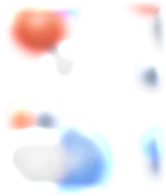
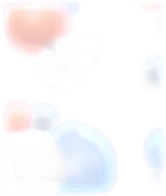
home page: intro pictures match the live first frame, guarded by a test
The intro starts settled: on its first frame the reel puts colours and camera in place,
so the live 3D no longer drifts for a second after it appears and the picture can show
that exact frame. Pictures now hold the dimmed canvas as seen over the page colour (the
canvas adds light where it is brighter than its alpha, which a straight-alpha picture
cannot hold), and touch screens get shapes up to 2.4:1; a screen far from every shape
gets no picture. tests/poster.spec.ts compares the picture with the first live frame.

diff --git a/tests/poster.spec.ts b/tests/poster.spec.ts
@@ -1,0 +1,48 @@
+// The intro's prerendered pictures (img/intro/*.webp) must match the live intro they hand over to. When the dust scene,
+// the lens or the colours change, this fails until the pictures are baked again (perf/capture-intro.cjs, then
+// perf/bake-intro-posters.py). The comparison is made as a visitor sees it: both composited over the page colour at
+// the intro's opacity, right when the 3D is ready (the poster is still up and the slow sway has barely started).
+import { test, expect } from '@playwright/test';
+import { watchErrors } from './helpers';
+
+for (const theme of ['dark', 'light'] as const) test(`the intro picture matches the live intro (${theme})`, async ({ page }) => {
+  const errors = watchErrors(page);
+  await page.addInitScript(t => { try { localStorage.setItem('nf-style', JSON.stringify({ theme: t })); } catch (e) {} }, theme);
+  await page.goto('?perf');
+  await page.waitForFunction(() => (window as any).__reel, null, { timeout: 60_000, polling: 10 });
+  // the page's frame loop has run once: it sets the canvas opacity and the out-of-focus blur
+  await page.waitForFunction(() => document.getElementById('reelCanvas')!.style.opacity !== '', null, { timeout: 30_000, polling: 10 });
+  const r = await page.evaluate(async () => {
+    const poster = document.getElementById('reelPoster') as HTMLImageElement | null;
+    if (!poster || poster.hidden) return null;
+    const reel = (window as any).__reel, gl = reel.three.renderer.getContext();
+    reel.render(performance.now());   // draw, then read before the browser presents and clears the buffer
+    const w = gl.drawingBufferWidth, h = gl.drawingBufferHeight, live = new Uint8Array(w * h * 4);
+    gl.readPixels(0, 0, w, h, gl.RGBA, gl.UNSIGNED_BYTE, live);
+    // the poster at the canvas size, fitted like the page shows it (object-fit: cover)
+    const img = new Image(); img.src = poster.src; await img.decode();
+    const c = document.createElement('canvas'); c.width = w; c.height = h;
+    const g = c.getContext('2d', { willReadFrequently: true })!, s = Math.max(w / img.width, h / img.height);
+    g.drawImage(img, (w - img.width * s) / 2, (h - img.height * s) / 2, img.width * s, img.height * s);
+    const pic = g.getImageData(0, 0, w, h).data;
+    const dark = document.documentElement.dataset.theme === 'dark', op = dark ? 0.16 : 0.38, bg = dark ? [16, 19, 24] : [243, 245, 249];
+    const d: number[] = [];
+    for (let y = 4; y < h; y += 8) for (let x = 4; x < w; x += 8) {
+      const iL = ((h - 1 - y) * w + x) * 4, iP = (y * w + x) * 4, aL = live[iL + 3] / 255, aP = pic[iP + 3] / 255;   // WebGL rows run bottom-up
+      for (let k = 0; k < 3; k++) {
+        const seenL = Math.min(255, bg[k] * (1 - aL * op) + live[iL + k] * op);   // the screen clips at white                 // the canvas is premultiplied
+        const seenP = bg[k] * (1 - aP) + pic[iP + k] * aP;                       // the poster shows at full opacity
+        d.push(Math.abs(seenL - seenP));
+      }
+    }
+    d.sort((a, b) => a - b);
+    return { src: poster.getAttribute('src'), mean: d.reduce((a, b) => a + b, 0) / d.length, p99: d[Math.floor(d.length * 0.99)] };
+  });
+  expect(r, 'a poster is shown for this screen').not.toBeNull();
+  console.log(`${theme}: ${r!.src} mean ${r!.mean.toFixed(2)} p99 ${r!.p99.toFixed(1)} (of 255, as seen)`);
+  // a current picture differs by p99 2-10 of 255 (more when the screen falls between two of the baked shapes); one
+  // from an older scene, lens or colour set differs by tens
+  expect(r!.p99, `${r!.src}: p99 difference from the live intro, as seen`).toBeLessThanOrEqual(12);
+  expect(r!.mean, `${r!.src}: mean difference from the live intro, as seen`).toBeLessThanOrEqual(1.5);
+  expect(errors).toEqual([]);
+});

diff --git a/public/reel3d.js b/public/reel3d.js
@@ -1882,7 +1882,7 @@ void main() {`).replace('#include <color_fragment>', `#include <color_fragment>
   const camCenter = forms.dust.center.clone(), camTarget = new THREE.Vector3();
   let photoOn = false, scrubT = 0, partK = 1, keepK = 1;
   let camDist = 15.5, stop = 0, forced = null, motion = 0, last = performance.now(), t0 = last, offX = 0, offY = 0, fitW = 0.55, fitH = 0.62, W = 1, H = 1;
-  let shownA = forms.dust, shownB = forms.dust, shownT = 0;
+  let shownA = forms.dust, shownB = forms.dust, shownT = 0, drawn = false;
   function size() {
     const r = canvas.getBoundingClientRect();
     renderer.setPixelRatio(software ? 1 : Math.min(prCap, window.devicePixelRatio || 1));
@@ -1915,6 +1915,10 @@ void main() {`).replace('#include <color_fragment>', `#include <color_fragment>
       A = forms[ORDER[a]]; B = forms[ORDER[b]]; t = smooth(0.1, 0.9, s - a);
     }
     shownA = A; shownB = B; shownT = t;
+    // the first frame of the intro starts settled (colours and camera in place, as the prerendered intro picture shows
+    // them), so the live 3D hands over from that picture without drifting; elsewhere the reel eases in as before
+    const settleNow = !drawn && A === forms.dust && (B === A || t === 0);   // at the very top the next scene's share is 0
+    drawn = true;
     const weight = F => A === B ? (A === F ? 1 : 0) : (A === F ? 1 - t : 0) + (B === F ? t : 0);
     const clock = (now - t0) / 1000;
     Object.values(CTRL).forEach(c => c.update(frameDt, weight, clock));
@@ -1928,7 +1932,7 @@ void main() {`).replace('#include <color_fragment>', `#include <color_fragment>
     const famDist = fam => Math.max(...MOL_FORMS.filter(F => F.meta.mol === fam).map(F => fitDist(F.ext.x, F.ext.y)));
     const dOf = F => F.meta.mol ? famDist(F.meta.mol) : null, molDist = dOf(A) ?? dOf(B);
     const dA = dOf(A), dB = dOf(B), fitAB = fitDist(A.ext.x + (B.ext.x - A.ext.x) * t, A.ext.y + (B.ext.y - A.ext.y) * t, weight(forms.dust));
-    const wantDist = dive * (dA !== null && dB !== null ? dA + (dB - dA) * t : dA !== null ? dA + (fitAB - dA) * t : dB !== null ? fitAB + (dB - fitAB) * t : fitAB), kk = reduce ? 1 : Math.min(1, frameDt * 3);
+    const wantDist = dive * (dA !== null && dB !== null ? dA + (dB - dA) * t : dA !== null ? dA + (fitAB - dA) * t : dB !== null ? fitAB + (dB - fitAB) * t : fitAB), kk = reduce || settleNow ? 1 : Math.min(1, frameDt * 3);
     // the illustration shot keeps one camera pose on every screen, so the Blender photo of it lines up: the distance
     // is fixed (a reference frame of 0.55 x 0.6 at 16:10) and the fit to this screen is done with zoom, which only scales
     const wIll = weight(forms.illModel), tvI = Math.tan(THREE.MathUtils.degToRad(15)), ext = forms.illModel.ext;
@@ -1980,7 +1984,7 @@ void main() {`).replace('#include <color_fragment>', `#include <color_fragment>
       const sTarget = A.size[i] + (B.size[i] - A.size[i]) * e, ds = sTarget - S[i];
       S[i] += ds * ks; if (Math.abs(ds) > err) err = Math.abs(ds);
       // a formation can carry its own per-particle colours (the image mosaics); otherwise colours come from slots
-      const ca = A.rgb ? tcA.fromArray(A.rgb, k3) : pal[A.col[i]], cb = B.rgb ? tcB.fromArray(B.rgb, k3) : pal[B.col[i]], f = Math.min(1, frameDt * 5);
+      const ca = A.rgb ? tcA.fromArray(A.rgb, k3) : pal[A.col[i]], cb = B.rgb ? tcB.fromArray(B.rgb, k3) : pal[B.col[i]], f = settleNow ? 1 : Math.min(1, frameDt * 5);
       const dr = ca.r + (cb.r - ca.r) * e - C[k3], dg = ca.g + (cb.g - ca.g) * e - C[k3 + 1], db = ca.b + (cb.b - ca.b) * e - C[k3 + 2];
       C[k3] += dr * f; C[k3 + 1] += dg * f; C[k3 + 2] += db * f;
       const dc = Math.max(Math.abs(dr), Math.abs(dg), Math.abs(db)); if (dc > err) err = dc;

diff --git a/public/index.html b/public/index.html
@@ -168,10 +168,8 @@ html:not(.intro-ready) .reel-head, html:not(.intro-ready) .reel-list { visibilit
 .reel-stage > * { pointer-events: auto; }
 .reel-canvas { position: absolute; left: 0; top: 0; width: 100%; height: 100%; display: block; z-index: 0; pointer-events: none; }
 /* the intro's out-of-focus atoms as a small prerendered picture: on screen from the first paint, it hands over to the
-   live 3D as the canvas fades in. Dimmed like the out-of-focus canvas (1 - 0.62 light, 1 - 0.84 dark) */
-.reel-poster { position: absolute; left: 0; top: 0; width: 100%; height: 100%; display: block; z-index: 0; pointer-events: none; object-fit: cover; opacity: .38; }
-:root[data-theme="dark"] .reel-poster { opacity: .16; }
-@media (prefers-color-scheme: dark) { :root:not([data-theme="light"]) .reel-poster { opacity: .16; } }
+   live 3D as the canvas fades in. The picture already holds the dimmed canvas as seen over the page colour */
+.reel-poster { position: absolute; left: 0; top: 0; width: 100%; height: 100%; display: block; z-index: 0; pointer-events: none; object-fit: cover; }
 /* the Blender render of the illustration shot, laid exactly over the camera's view once the clay frame has "rendered";
    when the scroll moves on it breaks into soft, drifting pixels drawn on its canvas */
 /* the photo is clipped on the left where the 3D canvas starts, so it never reaches the sidebar; on the right it runs to
@@ -645,8 +643,10 @@ if (menuBtn && sideMenu) {
               const cw = Math.min(1000, wide ? vw - 355 : vw - (vw <= 560 ? 32 : 80)), ch = wide ? vh : vh - 56;
               if (cw <= 0 || ch <= 0) return;
               const coarse = mm('(pointer: coarse)'), t = document.documentElement.dataset.theme, dark = t ? t === 'dark' : mm('(prefers-color-scheme: dark)');
-              const shapes = coarse ? [0.40, 0.46, 0.53, 0.62] : [0.65, 0.75, 0.85, 0.95, 1.05, 1.15, 1.30, 1.50, 1.75], a = cw / ch;
+              const shapes = coarse ? [0.40, 0.46, 0.53, 0.62, 0.75, 0.90, 1.05, 1.25, 1.55, 2.00, 2.40] : [0.65, 0.75, 0.85, 0.95, 1.05, 1.15, 1.30, 1.50, 1.75], a = cw / ch;
               const s = shapes.reduce((b, x) => Math.abs(Math.log(x / a)) < Math.abs(Math.log(b / a)) ? x : b);
+              // a shape far from every picture gets none: the canvas fades in on its own, as it always did
+              if (Math.abs(Math.log(s / a)) > 0.15) { p.hidden = true; return; }
               const src = `img/intro/${coarse ? 'm' : 'd'}${s.toFixed(2).replace('.', '')}-${dark ? 'dark' : 'light'}.webp`;
               if (p.getAttribute('src') !== src) p.src = src;
               p.hidden = false;
@@ -1561,7 +1561,7 @@ function paintFrame(dt) {
   const opG = op;
   if (opG !== paintFrame.op) { reelCanvas.style.opacity = opG; paintFrame.op = opG; }
   // the prerendered intro picture hands over to the canvas while it fades in, then leaves the page
-  if (reelPoster) { if (fadeIn >= 1) { reelPoster.remove(); reelPoster = null; } else reelPoster.style.opacity = ((1 - dim) * (1 - fadeIn)).toFixed(3); }
+  if (reelPoster) { if (fadeIn >= 1) { reelPoster.remove(); reelPoster = null; } else reelPoster.style.opacity = (1 - fadeIn).toFixed(3); }
   reel3d.setFit(mix('w'), mix('h'));
 }
 addEventListener('resize', () => { paintLabels.bw = 0; measureFrame(); if (demoApp.fit) demoApp.fit(); });

diff --git a/tests/README.md b/tests/README.md
@@ -8,6 +8,7 @@ Playwright tests for the whole site, run against the built site or a deployed UR
 | `intro.spec.ts` | The home intro, sampled every 20 px both ways: no speed jumps, "What I do best" lands sharp in its place and never covers a line, the first paint is already in place |
 | `reel.spec.ts` | Each skill button lands on its scene; the demo runs from picking to results |
 | `transitions.spec.ts` | Every page change runs a view transition |
+| `poster.spec.ts` | The intro's prerendered pictures match the live intro they hand over to (fails when the dust scene, lens or colours change; bake them again, see `perf/README.md`) |
 | `perf.spec.ts` | Nothing keeps running at rest (frame loops, 3D redraws, restyles per second); a whole-page touch scroll on a phone with a 4x slower CPU has no long freezes |
 
 Each test runs twice: at 1440 x 900 and as a 390 x 844 touch phone.
